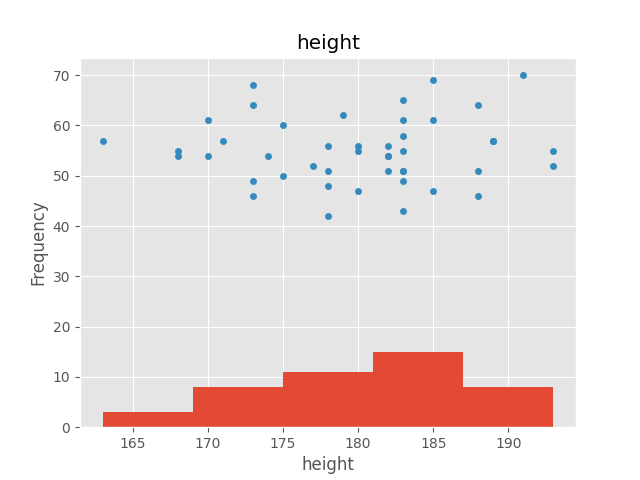
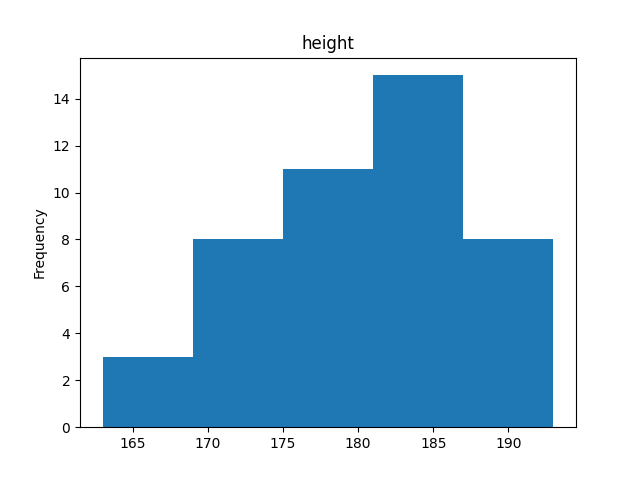
test

diff --git a/data_science/data_visualization_6.py b/data_science/data_visualization_6.py
@@ -1,0 +1,13 @@
+import matplotlib.pyplot as plt
+import pandas as pd
+
+presidents_df = pd.read_csv('csv_files/president_heights_party.csv', index_col='name')
+presidents_df.plot(kind='scatter',
+                   x='height',
+                   y='age',
+                   title='U.S. presidents')
+plt.savefig('plots/pd_plot.png')
+# plt.draw()
+# plt.pause(1)
+# plt.show()
+# plt.clf()

diff --git a/data_science/data_visualization_7.py b/data_science/data_visualization_7.py
@@ -1,0 +1,12 @@
+import matplotlib.pyplot as plt
+import pandas as pd
+
+presidents_df = pd.read_csv('csv_files/president_heights_party.csv', index_col='name')
+presidents_df['height'].plot(kind='hist',
+                             title='height',
+                             bins=5)
+plt.savefig('plots/hist_1.png')
+# plt.draw()
+# plt.pause(1)
+# plt.show()
+# plt.clf()

diff --git a/data_science/data_visualization_9.py b/data_science/data_visualization_9.py
@@ -1,0 +1,11 @@
+import matplotlib.pyplot as plt
+import pandas as pd
+
+presidents_df = pd.read_csv('csv_files/president_heights_party.csv', index_col='name')
+plt.style.use('classic')
+presidents_df.boxplot(column='height')
+plt.savefig('plots/boxplot.png')
+# plt.draw()
+# plt.pause(1)
+# plt.show()
+# plt.clf()

diff --git a/data_science/data_visualization_8.py b/data_science/data_visualization_8.py
@@ -1,0 +1,10 @@
+import matplotlib.pyplot as plt
+import pandas as pd
+
+presidents_df = pd.read_csv('csv_files/president_heights_party.csv', index_col='name')
+plt.hist(presidents_df['height'], bins=5)
+plt.savefig('plots/hist_2.png')
+# plt.draw()
+# plt.pause(1)
+# plt.show()
+# plt.clf()
